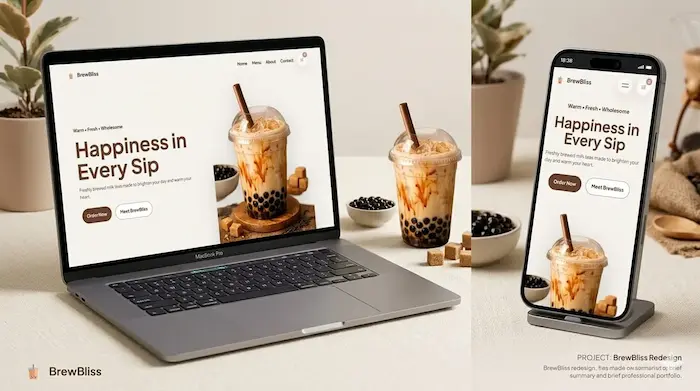
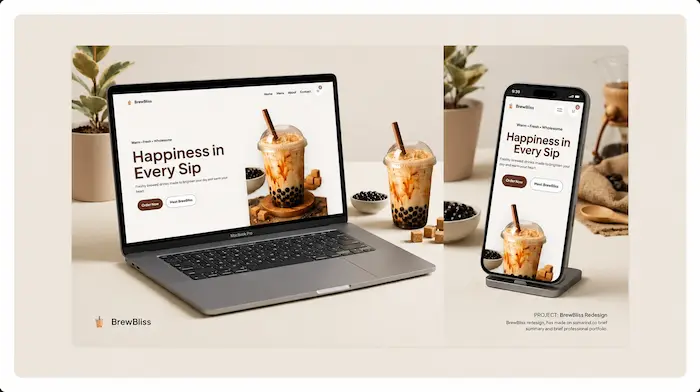
updated

diff --git a/css/style.css b/css/style.css
@@ -770,6 +770,9 @@ ul {
 /* SECTION */
 .how-it-works {
   padding: 50px 16px;
+  display: flex;
+  flex-direction: column;
+  justify-content: center;
 }
 
 /* SCOPED CONTAINER (IMPORTANT FIX) */
@@ -852,6 +855,7 @@ ul {
   border: 1px solid transparent;
   transition: border 0.3s ease;
   font-family: sans-serif;
+ max-width: 700px;
 }
 
 .faq-item.active {
@@ -894,13 +898,14 @@ color: var(--black);
   display: inline-block;
   flex-shrink: 0;
 
-  transition: transform var(--transition);
+  transition: transform 0.3s ease, color 0.3s ease;
   transform-origin: center;
 }
 
 /* rotate arrow */
 .faq-item.active .faq-toggle {
   transform: rotate(180deg);
+  color: var(--black);
 }
 
 .faq-answer {

diff --git a/index.php b/index.php
@@ -445,7 +445,7 @@
           <div class="faq-item">
             <button class="faq-question">
               What is a custom website?
-              <span class="faq-toggle">⌄</span>
+              <span class="faq-toggle">ᨆ</span>
             </button>
             <div class="faq-answer">
               A site fully tailored to your brand — not a template. Every section and detail is designed and developed
@@ -456,7 +456,7 @@
           <div class="faq-item">
             <button class="faq-question">
               Why choose a custom website over a regular website builder?
-              <span class="faq-toggle">⌄</span>
+              <span class="faq-toggle">ᨆ</span>
             </button>
             <div class="faq-answer">
               Platforms limit you to their templates and charge monthly fees just to stay online. A custom website has
@@ -469,7 +469,7 @@
           <div class="faq-item">
             <button class="faq-question">
               Who is a custom website for?
-              <span class="faq-toggle">⌄</span>
+              <span class="faq-toggle">ᨆ</span>
             </button>
             <div class="faq-answer">
               It's perfect for small businesses, startups, and personal brands who want an online presence that truly
@@ -480,7 +480,7 @@
           <div class="faq-item">
             <button class="faq-question">
               How do I get started?
-              <span class="faq-toggle">⌄</span>
+              <span class="faq-toggle">ᨆ</span>
             </button>
             <div class="faq-answer">
               Just reach out and tell me what you have in mind. I'll ask a few simple questions and then start building
@@ -491,7 +491,7 @@
           <div class="faq-item">
             <button class="faq-question">
               Do you offer revisions?
-              <span class="faq-toggle">⌄</span>
+              <span class="faq-toggle">ᨆ</span>
             </button>
             <div class="faq-answer">
               Yes, I include 2 revisions to make sure everything matches your
@@ -502,7 +502,7 @@
           <div class="faq-item">
             <button class="faq-question">
               What happens after the website is finished?
-              <span class="faq-toggle">⌄</span>
+              <span class="faq-toggle">ᨆ</span>
             </button>
             <div class="faq-answer">
               You’ll receive the completed website ready to launch, along with
